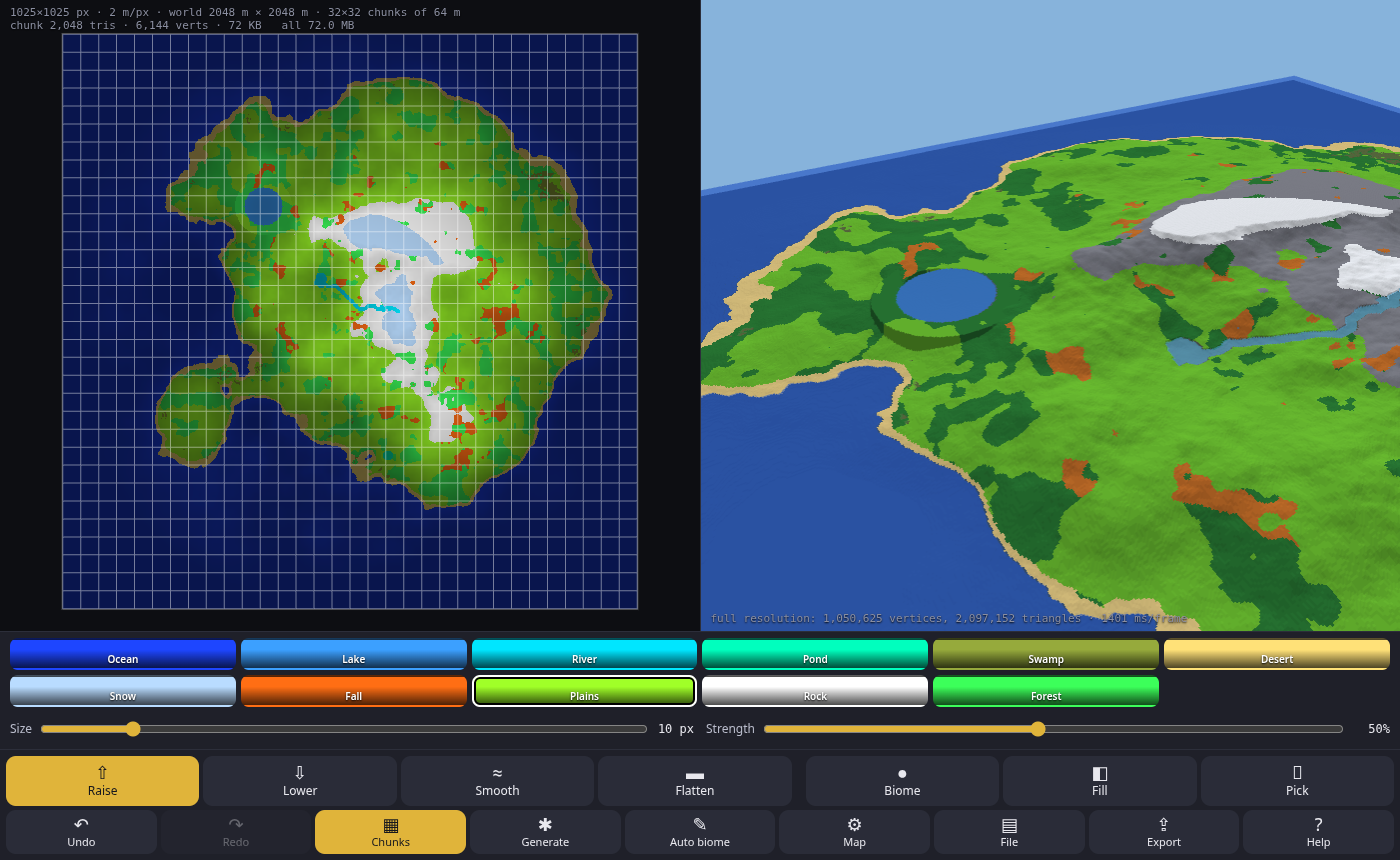
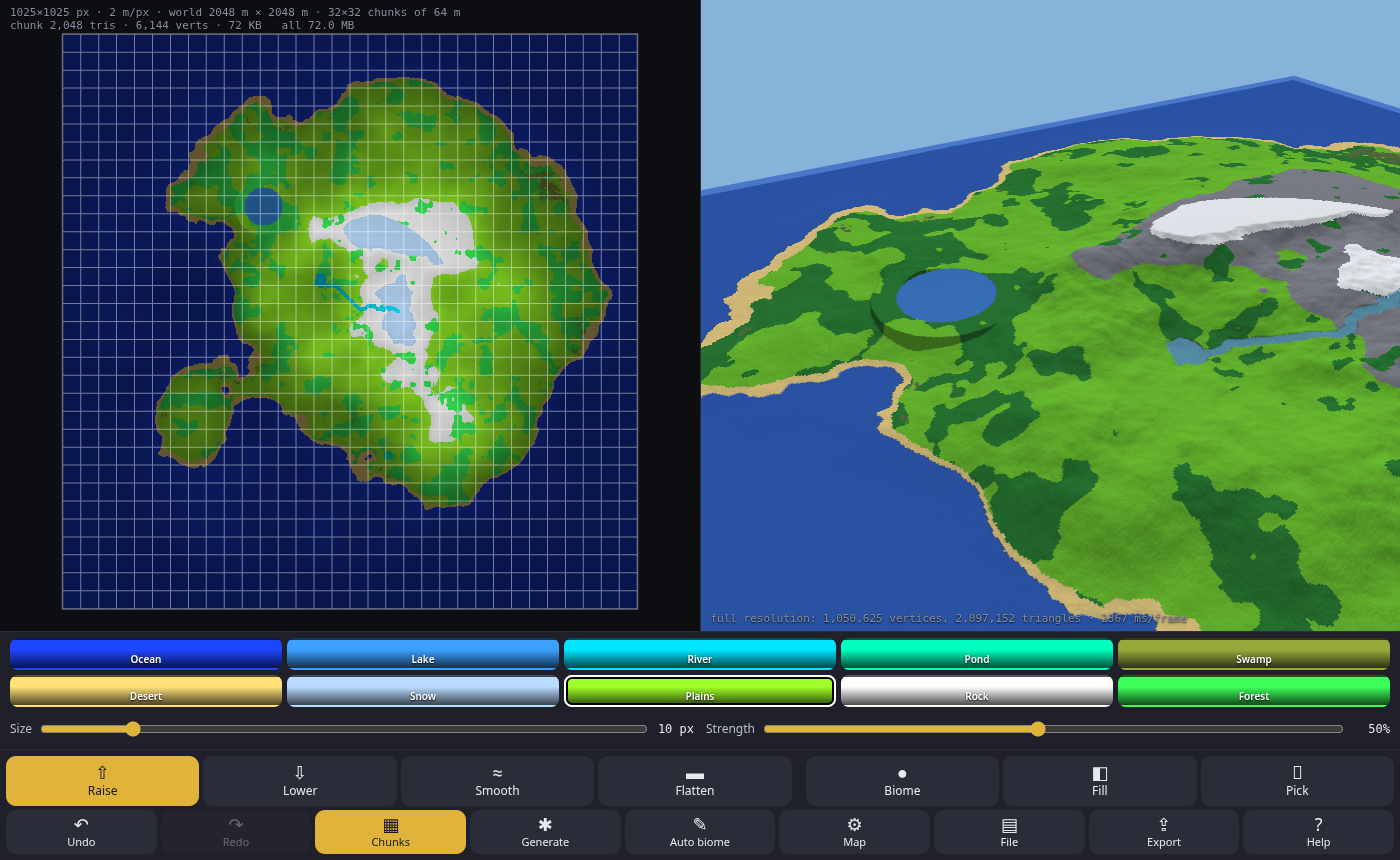
Remove the Fall biome; biome ids are now 0..9
Fall maps to Forest when older maps are loaded (map version 4).
Biome hotkeys are 1-9 and 0; 1:1 zoom stays on =.

diff --git a/index.html b/index.html
@@ -67,7 +67,7 @@
   .sliders label { flex: 1; display: flex; align-items: center; gap: 6px; font-size: 12px; color: #b9bccb; min-width: 0; }
   .sliders label b { font: 12px ui-monospace, Menlo, Consolas, monospace; color: #e8e8ee; min-width: 3.2em; text-align: right; font-weight: 400; }
   input[type=range] { flex: 1; min-width: 0; height: 28px; accent-color: #e0b43a; }
-  #swatches { display: grid; grid-template-columns: repeat(6, 1fr); gap: 5px; }
+  #swatches { display: grid; grid-template-columns: repeat(5, 1fr); gap: 5px; }
   .swatch { height: 32px; border-radius: 8px; border: 2px solid #0000; padding: 0; touch-action: manipulation;
             font: 600 10px system-ui, sans-serif; color: #000a; display: flex; align-items: flex-end; justify-content: center; padding-bottom: 2px; }
   .swatch.on { border-color: #fff; box-shadow: 0 0 0 2px #000 inset; }
@@ -251,7 +251,7 @@
 <div id="autoModal" class="modal">
   <div class="card">
     <div class="head"><span>Auto biome</span><button id="amClose" class="alt">Cancel</button></div>
-    <div class="note">Re-colors every pixel from its height and slope, keeping its brightness: Ocean below sea level, Desert sand on the shore, Swamp on some low flat land near the sea, Rock on steep slopes, Snow up high, and Forest, Fall forest (higher up) and Plains in between. Lakes, rivers and ponds are yours to paint (this replaces any already painted). Undo brings it back; paint over it after.</div>
+    <div class="note">Re-colors every pixel from its height and slope, keeping its brightness: Ocean below sea level, Desert sand on the shore, Swamp on some low flat land near the sea, Rock on steep slopes, Snow up high, and Forest and Plains in between. Lakes, rivers and ponds are yours to paint (this replaces any already painted). Undo brings it back; paint over it after.</div>
     <label><span>Beach height (m)</span><input id="autoBeach" type="number" min="0" step="0.5" value="2" inputmode="decimal"></label>
     <label><span>Rock slope (°)</span><input id="autoRock" type="number" min="5" max="85" step="1" value="40" inputmode="decimal"></label>
     <label><span>Snow above (% of max)</span><input id="autoSnow" type="number" min="0" max="100" step="1" value="78" inputmode="decimal"></label>
@@ -298,7 +298,7 @@
       <li><b>Brightness = height.</b> The biome's full key color is Max height. Darker shades of that color are lower, down to <b>30% brightness at 0 m</b>, never black.</li>
       <li>Grey and white are <b>Rock</b>; <b>Snow</b> is the icy blue-white. Pure black (no hue) counts as Ocean at 0 m.</li>
     </ul>
-    <p>11 biomes (id: name): 0 Ocean, 1 Lake, 2 River, 3 Pond, 4 Swamp, 5 Desert, 6 Snow, 7 Fall (autumn forest), 8 Plains (grassy), 9 Rock, 10 Forest. The ids never change, so a game can rely on them.</p>
+    <p>10 biomes (id: name): 0 Ocean, 1 Lake, 2 River, 3 Pond, 4 Swamp, 5 Desert, 6 Snow, 7 Plains (grassy), 8 Rock, 9 Forest. Keys 1-9 and 0 pick them in this order.</p>
     <p>The 30% floor is there so dark, low pixels still show their hue: deep water is dark blue and low forest is dark green, not black. It costs a little precision: there are still about 250 to 530 height steps per biome (0.5 m steps at 120 m Max height).</p>
     <h3>Water</h3>
     <p>Ocean, Lake, River, Pond and Swamp are <b>water biomes</b>. Like every biome their brightness is the height of the <b>bed</b> (sea floor, lake bottom, river bed). The water surface on top is worked out for you:</p>
@@ -322,7 +322,7 @@
     <ul>
       <li>Map: one finger / left mouse paints. Two fingers pan and pinch-zoom. Mouse: right or middle drag pans, wheel zooms. Zoom in far enough and a pixel grid appears, so you can paint single pixels (brush size 1). <b>F</b> fits the map, <b>=</b> zooms to 1 screen pixel per map pixel.</li>
       <li>3D: one finger / left drag orbits, two fingers pan and zoom. Mouse: right drag pans, wheel zooms.</li>
-      <li>Keys: Ctrl+Z / Ctrl+Y undo / redo, [ and ] brush size, 1-9, 0 and − pick a biome (in swatch order).</li>
+      <li>Keys: Ctrl+Z / Ctrl+Y undo / redo, [ and ] brush size, 1-9 and 0 pick a biome (in swatch order: 1 = Ocean ... 0 = Forest).</li>
     </ul>
     <h3>Coordinates</h3>
     <p>Z is up. The image is a top-down map with north (+Y) at the top: pixel (col, row) sits at world x = col × m/px, y = (H − 1 − row) × m/px, z = height.</p>
@@ -365,22 +365,29 @@ const BIOMES = [
   { name: "Swamp",  key: [150, 170,  60], game: [ 78,  92,  52], water: true, wcol: [ 90, 110,  60, 0.45] },
   { name: "Desert", key: [255, 225, 120], game: [226, 200, 130] },
   { name: "Snow",   key: [185, 220, 255], game: [240, 244, 250] },   // icy blue-white
-  { name: "Fall",   key: [255, 110,  20], game: [196, 110,  40] },   // autumn forest
   { name: "Plains", key: [160, 255,  40], game: [106, 190,  48] },   // grassy plains
   { name: "Rock",   key: [255, 255, 255], game: [128, 130, 140] },   // neutral: grey / white
   { name: "Forest", key: [ 60, 255,  90], game: [ 40, 122,  52] },
 ];
 const B_OCEAN = 0, B_LAKE = 1, B_RIVER = 2, B_POND = 3, B_SWAMP = 4, B_DESERT = 5, B_SNOW = 6,
-      B_FALL = 7, B_PLAINS = 8, B_ROCK = 9, B_FOREST = 10;
+      B_PLAINS = 7, B_ROCK = 8, B_FOREST = 9;
 const IS_WATER = BIOMES.map((b) => !!b.water);
 
-// Maps saved before this palette (format version 2) used 7 biomes with other key
-// colors. They are decoded with the old keys and re-encoded with the new ones:
-// Water -> Ocean, Sand -> Desert, Grass -> Plains, Forest -> Forest, Dirt -> Desert
-// (bare ground), Rock -> Rock, Snow -> Snow. Heights are kept.
-const OLD_V2_KEYS = [[40, 120, 255], [255, 225, 120], [150, 255, 50], [40, 255, 120], [255, 150, 70], [255, 255, 255], [190, 225, 255]];
-const OLD_V2_TO_NEW = [B_OCEAN, B_DESERT, B_PLAINS, B_FOREST, B_DESERT, B_ROCK, B_SNOW];
-const MAP_VERSION = 3;   // stored in PNG metadata / autosave; < 3 means the old palette
+// Maps saved with an older palette are decoded with that palette's keys and re-encoded
+// with the current ones, keeping every height. MAP_VERSION is stored in PNG metadata,
+// the autosave and JSON projects.
+//   version <= 2 (7 biomes): Water -> Ocean, Sand -> Desert, Grass -> Plains,
+//     Forest -> Forest, Dirt -> Desert (bare ground), Rock -> Rock, Snow -> Snow.
+//   version 3 (11 biomes, had Fall at id 7): Fall -> Forest, ids 8..10 move down by one.
+const OLD_PALETTES = {
+  2: { keys: [[40, 120, 255], [255, 225, 120], [150, 255, 50], [40, 255, 120], [255, 150, 70], [255, 255, 255], [190, 225, 255]],
+       map: [B_OCEAN, B_DESERT, B_PLAINS, B_FOREST, B_DESERT, B_ROCK, B_SNOW] },
+  3: { keys: [[30, 70, 255], [60, 160, 255], [0, 230, 255], [0, 255, 190], [150, 170, 60], [255, 225, 120], [185, 220, 255],
+              [255, 110, 20], [160, 255, 40], [255, 255, 255], [60, 255, 90]],
+       map: [B_OCEAN, B_LAKE, B_RIVER, B_POND, B_SWAMP, B_DESERT, B_SNOW, B_FOREST, B_PLAINS, B_ROCK, B_FOREST] },
+};
+const MAP_VERSION = 4;   // current palette (10 biomes)
+const oldPaletteOf = (v) => OLD_PALETTES[v >= 3 ? 3 : 2];   // only called when v < MAP_VERSION
 
 // Water rules (meters). See computeWater().
 const RIVER_DEPTH = 0.8, SWAMP_DEPTH = 0.25, MIN_LAKE_DEPTH = 0.3;
@@ -518,9 +525,10 @@ function encodePixel(px, o, biome, h, dither) {
   return (T / ks - VMIN) / (1 - VMIN);
 }
 
-// Re-encode an image painted with the old (version 2) palette into the new one.
-function migrateV2Image(img) {
-  const ks = OLD_V2_KEYS.map((k) => k[0] + k[1] + k[2]), kc = OLD_V2_KEYS.map((k, j) => k.map((v) => v / ks[j]));
+// Re-encode an image painted with an older palette (see OLD_PALETTES) into the current one.
+function migrateImage(img, version) {
+  const P = oldPaletteOf(version);
+  const ks = P.keys.map((k) => k[0] + k[1] + k[2]), kc = P.keys.map((k, j) => k.map((v) => v / ks[j]));
   for (let i = 0, n = img.length / 4; i < n; i++) {
     const o = i * 4, r = img[o], g = img[o + 1], b = img[o + 2], sum = r + g + b;
     let best = 0, h = 0;
@@ -529,7 +537,7 @@ function migrateV2Image(img) {
       for (let k = 0; k < kc.length; k++) { const c = kc[k], d = (r / sum - c[0]) ** 2 + (g / sum - c[1]) ** 2 + (b / sum - c[2]) ** 2; if (d < bd) { bd = d; best = k; } }
       h = clamp((sum / ks[best] - VMIN) / (1 - VMIN), 0, 1);
     }
-    encodePixel(img, o, OLD_V2_TO_NEW[best], h, false);
+    encodePixel(img, o, P.map[best], h, false);
   }
 }
 
@@ -677,14 +685,14 @@ function loadProject(p) {
   const st = p.settings || {};
   const w = (st.w | 0) || (st.size | 0), h = (st.h | 0) || (st.size | 0), size = w;
   if (!(w >= 8 && w <= SIZE_MAX && h >= 8 && h <= SIZE_MAX)) throw new Error("Bad map size");
-  if ((p.version === 2 || p.version === MAP_VERSION) && p.image_rgb_b64) {
+  if (p.version >= 2 && p.version <= MAP_VERSION && p.image_rgb_b64) {
     const rgb = b64ToBytes(p.image_rgb_b64);
     if (rgb.length !== w * h * 3) throw new Error("Data does not match the map size");
     applySettings(st); allocMap(w, h);
     for (let i = 0; i < w * h; i++) { IMG[i * 4] = rgb[i * 3]; IMG[i * 4 + 1] = rgb[i * 3 + 1]; IMG[i * 4 + 2] = rgb[i * 3 + 2]; IMG[i * 4 + 3] = 255; }
-    if (p.version < MAP_VERSION) { migrateV2Image(IMG); decodeAll(); return "v2"; }
+    if (p.version < MAP_VERSION) { migrateImage(IMG, p.version); decodeAll(); return "old"; }
     decodeAll();
-    return "v3";
+    return "current";
   }
   if (p.height_u16_le_b64 && p.biome_u8_b64) {
     const hb = b64ToBytes(p.height_u16_le_b64), bb = b64ToBytes(p.biome_u8_b64);
@@ -692,7 +700,7 @@ function loadProject(p) {
     const h16 = new Uint16Array(hb.buffer, hb.byteOffset, size * size);
     const hf = new Float32Array(size * size);
     for (let i = 0; i < hf.length; i++) hf[i] = h16[i] / 65535;
-    for (let i = 0; i < bb.length; i++) bb[i] = bb[i] < OLD_V2_TO_NEW.length ? OLD_V2_TO_NEW[bb[i]] : B_PLAINS;
+    for (let i = 0; i < bb.length; i++) bb[i] = bb[i] < OLD_PALETTES[2].map.length ? OLD_PALETTES[2].map[bb[i]] : B_PLAINS;
     applySettings(st); allocMap(size, size);
     encodeFrom(hf, bb);
     return "v1";
@@ -741,9 +749,9 @@ function loadAutosave(a) {
   if (!(w >= SIZE_MIN && w <= SIZE_MAX && h >= SIZE_MIN && h <= SIZE_MAX) || a.img.length !== w * h * 4) return false;
   applySettings(a.settings); allocMap(w, h);
   IMG = a.img;
-  if (!(a.version >= MAP_VERSION)) migrateV2Image(IMG);
+  if (!(a.version >= MAP_VERSION)) migrateImage(IMG, a.version);
   decodeAll();
-  return a.version >= MAP_VERSION ? true : "v2";
+  return a.version >= MAP_VERSION ? true : "old";
 }
 
 //----- Map Resize -----||
@@ -927,8 +935,8 @@ function slopeDegOf(h, c, r) {
 function slopeDeg(c, r) { return slopeDegOf(H, c, r); }
 // Biome for every pixel from a height array (0..1). Returns a new biome array.
 // Ocean below sea level, Desert (sand) on the shore, Swamp patches on low flat land
-// near the sea, Rock on steep slopes, Snow up high, and Forest / Fall / Plains in
-// between from clumpy noise (Fall higher up). Lakes, rivers and ponds are painted.
+// near the sea, Rock on steep slopes, Snow up high, and Forest / Plains in between
+// from clumpy noise. Lakes, rivers and ponds are painted.
 function autoBiomes(h, beach, rockDeg, snowPct, forestPct) {
   const mw = S.w, mh = S.h, seed = 9173, out = new Uint8Array(mw * mh);
   const patch = Math.max(8, Math.round(Math.max(mw, mh) / 40));   // forest clump size in pixels
@@ -948,7 +956,6 @@ function autoBiomes(h, beach, rockDeg, snowPct, forestPct) {
           const f = fbm(c / patch, r / patch, seed, 3, 0.5);
           const hiFade = (h[i] * 100) / Math.max(1, snowPct);
           b = f < (forestPct / 100) * (1.15 - hiFade * 0.5) * 0.9 + 0.08 ? B_FOREST : B_PLAINS;
-          if (b === B_FOREST && hiFade > 0.45 && fbm(c / patch + 9, r / patch + 3, seed + 3, 2, 0.5) > 0.5) b = B_FALL;
           if (b === B_PLAINS && hiFade > 0.82) b = B_ROCK;
         }
       }
@@ -1712,9 +1719,9 @@ async function openMapPNG(file) {
   if (meta && meta.settings) applySettings(meta.settings);
   allocMap(nw, nh);
   IMG.set(px);
-  // Maps saved before the 11-biome palette carry version 2 metadata: convert them.
+  // Maps saved with an older palette carry an older version in their metadata: convert them.
   const oldPalette = meta && meta.app === "terrain-maker" && !(meta.version >= MAP_VERSION);
-  if (oldPalette) migrateV2Image(IMG);
+  if (oldPalette) migrateImage(IMG, meta.version);
   const changed = oldPalette ? 0 : canonicalizeAll();
   if (oldPalette) decodeAll();
   syncSettingsUI(); touched(true);
@@ -1870,8 +1877,8 @@ function buildExport(fmt) {
   L.push(`//----- Biomes -----||`);
   L.push(`// Index stored in the biome data. Stable: shared by every map, new biomes only go at the end.`);
   L.push(`// Ids 0..4 are water biomes (their height is the bed under the water).`);
-  L.push(`#ifndef TERRAIN_BIOMES_V3_DEFINED`);
-  L.push(`#define TERRAIN_BIOMES_V3_DEFINED`);
+  L.push(`#ifndef TERRAIN_BIOMES_V4_DEFINED`);
+  L.push(`#define TERRAIN_BIOMES_V4_DEFINED`);
   L.push(`enum TerrainBiome : uint8_t {`);
   BIOMES.forEach((b, k) => L.push(`    BIOME_${b.name.toUpperCase()} = ${k},`.padEnd(24) + `// key #${b.key.map(hex2).join("")}${b.water ? ", water" : ""}`));
   L.push(`    BIOME_COUNT = ${BIOMES.length}`);
@@ -1997,7 +2004,7 @@ function selectBiome(k) {
   biomeSel = k; updateSwatches();
   if (tool !== "paint" && tool !== "fill") setTool("paint");   // picking a color means: paint with it
 }
-const BIOME_KEYS = "1234567890-";   // keyboard shortcut per biome id
+const BIOME_KEYS = "1234567890";   // keyboard shortcut per biome id (0 = Forest; 1:1 zoom is "=")
 function buildSwatches() {
   const box = $("swatches"); box.innerHTML = "";
   BIOMES.forEach((b, k) => {
@@ -2265,11 +2272,11 @@ function drawGL(timed) {
   let loaded = false, migrated = false;
   let newPalette = false;
   try { loaded = loadAutosave(await idbGet(IDB_KEY)); } catch (e) { loaded = false; }
-  if (loaded === "v2") newPalette = true;
+  if (loaded === "old") newPalette = true;
   if (!loaded) {
     try {
       const raw = localStorage.getItem(SAVE_KEY);
-      if (raw) { newPalette = loadProject(JSON.parse(raw)) !== "v3"; loaded = true; migrated = true; }
+      if (raw) { newPalette = loadProject(JSON.parse(raw)) !== "current"; loaded = true; migrated = true; }
     } catch (e) { loaded = false; }
   }
   if (!loaded) {
@@ -2290,7 +2297,7 @@ function drawGL(timed) {
   onResize(); fitMap(); fitCamera(); updateStats();
   if (!localStorage.getItem(SAVE_KEY + ".helped")) openModal("helpModal");
   if (migrated) toast("Loaded your saved map");
-  if (newPalette) toast("Your saved map was converted to the new biome palette (Water → Ocean)");
+  if (newPalette) toast("Your saved map was converted to the current biome palette");
   if (!loaded || migrated || newPalette) scheduleSave();
   window.terrainMakerReady = true;
   requestAnimationFrame(frame);

diff --git a/README.md b/README.md
@@ -17,7 +17,7 @@ Each pixel is one terrain vertex.
 - The height is read from the channel sum: `height = ((r+g+b) / keySum - 0.3) / 0.7`. That gives about 250 to 535 height steps depending on the biome (0.5 m or finer at 120 m Max height).
 - Pure black (`r+g+b < 12`, no hue) counts as Ocean at 0 m.
 
-There are 11 biomes. The ids are stable (exported as `BIOME_OCEAN = 0` and so on), and new biomes will only be added at the end. The packed format allows up to 16.
+There are 10 biomes with contiguous ids 0..9, exported as `BIOME_OCEAN = 0` and so on. New biomes will only be added at the end. The packed format allows up to 16.
 
 | Id | Biome | Key color (map, max height) | Game color (3D + export) | Water |
 |---|---|---|---|---|
@@ -28,10 +28,9 @@ There are 11 biomes. The ids are stable (exported as `BIOME_OCEAN = 0` and so on
 | 4 | Swamp  | `#96AA3C` (150, 170, 60)  | 78, 92, 52    | yes |
 | 5 | Desert | `#FFE178` (255, 225, 120) | 226, 200, 130 | |
 | 6 | Snow   | `#B9DCFF` (185, 220, 255), icy blue-white | 240, 244, 250 | |
-| 7 | Fall (autumn forest) | `#FF6E14` (255, 110, 20) | 196, 110, 40 | |
-| 8 | Plains (grassy) | `#A0FF28` (160, 255, 40) | 106, 190, 48 | |
-| 9 | Rock   | `#FFFFFF` (255, 255, 255), grey/white | 128, 130, 140 | |
-| 10 | Forest | `#3CFF5A` (60, 255, 90)  | 40, 122, 52   | |
+| 7 | Plains (grassy) | `#A0FF28` (160, 255, 40) | 106, 190, 48 | |
+| 8 | Rock   | `#FFFFFF` (255, 255, 255), grey/white | 128, 130, 140 | |
+| 9 | Forest | `#3CFF5A` (60, 255, 90)  | 40, 122, 52   | |
 
 The key colors are spread out by hue, so every brightness of a key still reads as its own biome. The closest pair is Snow and Rock, at a chroma distance of 0.075. Rounding moves a pixel at most 0.0065, so no two keys can be confused. A test checks every biome at every brightness.
 
@@ -52,19 +51,14 @@ A sample is under water where `surface > bed`, and `depth = surface - bed`. The 
 
 ### Older maps
 
-Maps saved before this palette (PNG metadata, autosave or JSON at version 2 or lower) are converted when you load them. Each pixel is decoded with the old keys and re-encoded with the new ones, keeping its height:
+Maps saved with an older palette are converted when you load them. That covers PNG metadata, the autosave and JSON projects. Each pixel is decoded with the old keys and re-encoded with the current ones, keeping its height.
 
-| Old biome | New biome |
+| Saved as | Conversion |
 |---|---|
-| Water | Ocean |
-| Sand | Desert |
-| Grass | Plains |
-| Forest | Forest |
-| Dirt | Desert |
-| Rock | Rock |
-| Snow | Snow |
+| Version 3 (11 biomes) | Fall becomes Forest. Plains, Rock and Forest move from ids 8, 9, 10 to 7, 8, 9. Everything else keeps its id. |
+| Version 2 or lower (7 biomes) | Water becomes Ocean, Sand becomes Desert, Grass becomes Plains, Dirt becomes Desert. Forest, Rock and Snow stay the same. |
 
-PNGs without Terrain Maker metadata are read with the new palette.
+PNGs without Terrain Maker metadata are read with the current palette.
 
 ## Use
 
@@ -92,9 +86,9 @@ You can edit the PNG in any pixel editor. Keep it lossless (no JPEG, no smoothin
 Keys:
 - Ctrl+Z / Ctrl+Y: undo and redo
 - `[` `]`: change brush size
-- `1`-`9`, `0`, `-`: pick a biome in swatch order (Ocean ... Forest)
+- `1`-`9`, `0`: pick a biome in swatch order (`1` = Ocean ... `9` = Rock, `0` = Forest)
 - `F`: fit the map
-- `=`: 1:1 zoom
+- `=`: 1:1 zoom (stays on `=` because `0` picks Forest)
 
 ## Export
 
@@ -106,7 +100,7 @@ Every export is the full map: one sample per pixel. Pick one of three data forma
 | `uint8` height + `uint8` biome | 2 B | `uint8` | 3 B | 256 | 3.0 MB | 11.4 MB |
 | **packed** `uint16` | 2 B | `uint16` (0..4095) | 4 B | 4096 (12 bits) | 4.0 MB | 15.3 MB |
 
-**Packed:** height in the top 12 bits, biome in the low 4 bits, so `h = v >> 4` (0..4095) and `biome = v & 15`. That allows at most 16 biomes (there are 11). At 120 m Max height one step is about 3 cm.
+**Packed:** height in the top 12 bits, biome in the low 4 bits, so `h = v >> 4` (0..4095) and `biome = v & 15`. That allows at most 16 biomes (there are 10). At 120 m Max height one step is about 3 cm.
 
 Multiply any height or water value by `height_scale` to get meters. `height_scale` is `max_height / 65535`, `/ 255` or `/ 4095` depending on the format.
 
@@ -120,8 +114,8 @@ At 8-bit (0.47 m steps), very shallow water such as the 0.25 m swamp film can ro
   - Map: `name_w`, `name_h`, `name_meters_per_px`, `name_max_height`, `name_height_scale`, `name_sea_level`
   - Chunks: `name_chunk_cells`, `name_chunks_x`, `name_chunks_y`
   - Format: `name_is_packed`, `name_has_water`
-- **Shared tables** (behind the `TERRAIN_BIOMES_V3_DEFINED` guard):
-  - `enum TerrainBiome`: `BIOME_OCEAN = 0`, `BIOME_LAKE`, `BIOME_RIVER`, `BIOME_POND`, `BIOME_SWAMP`, `BIOME_DESERT`, `BIOME_SNOW`, `BIOME_FALL`, `BIOME_PLAINS`, `BIOME_ROCK`, `BIOME_FOREST = 10`, `BIOME_COUNT`
+- **Shared tables** (behind the `TERRAIN_BIOMES_V4_DEFINED` guard):
+  - `enum TerrainBiome`: `BIOME_OCEAN = 0`, `BIOME_LAKE`, `BIOME_RIVER`, `BIOME_POND`, `BIOME_SWAMP`, `BIOME_DESERT`, `BIOME_SNOW`, `BIOME_PLAINS`, `BIOME_ROCK`, `BIOME_FOREST = 9`, `BIOME_COUNT`
   - `terrain_biome_name` and `terrain_biome_is_water`
   - `terrain_biome_rgb` (game colors) and `terrain_biome_key_rgb` (map key colors)
   - `terrain_biome_water_rgba` (preview water tint)
